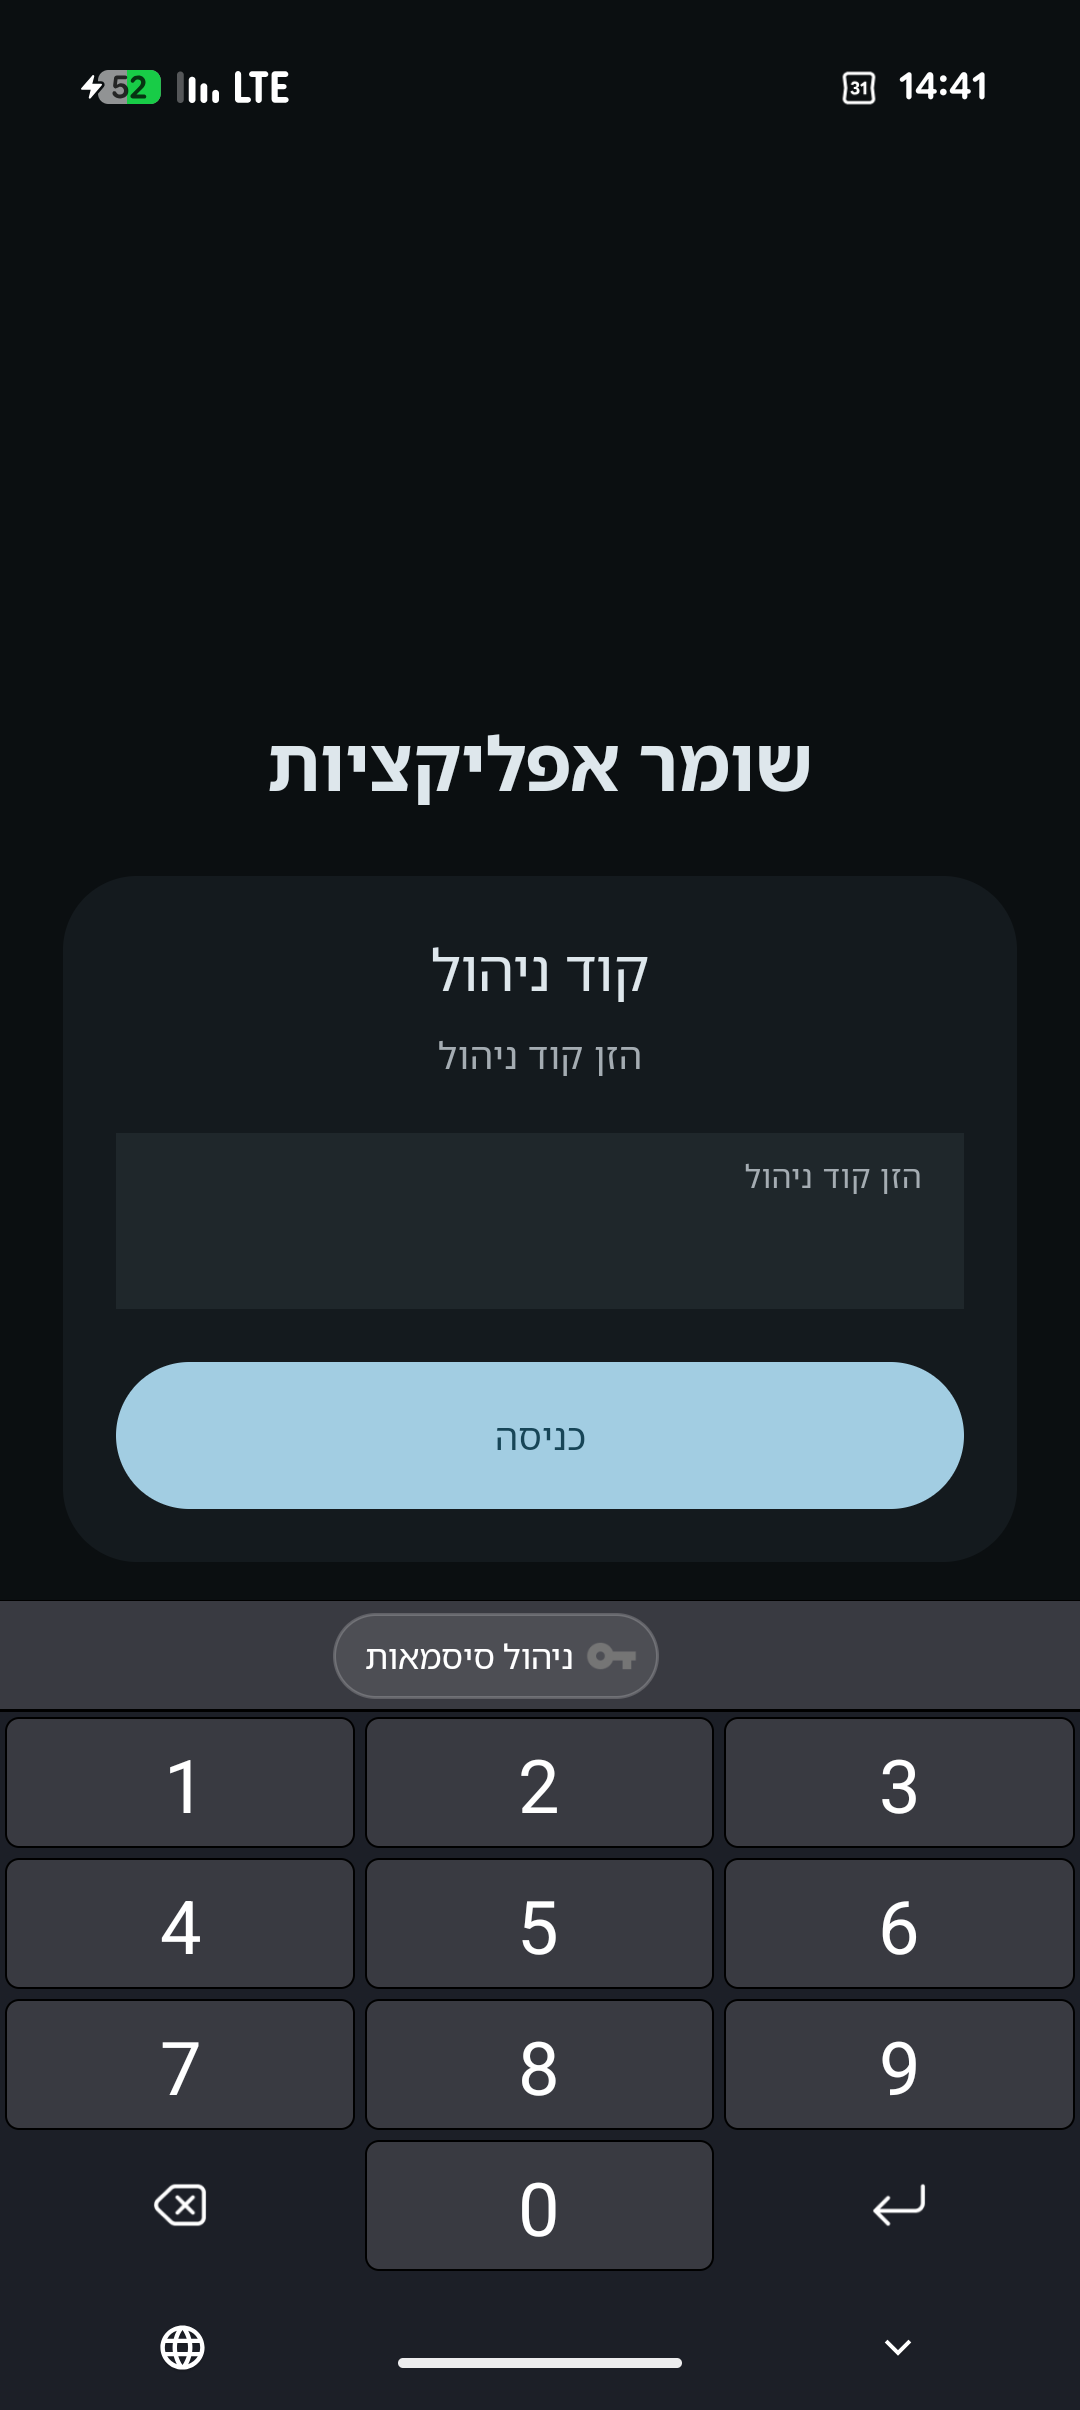
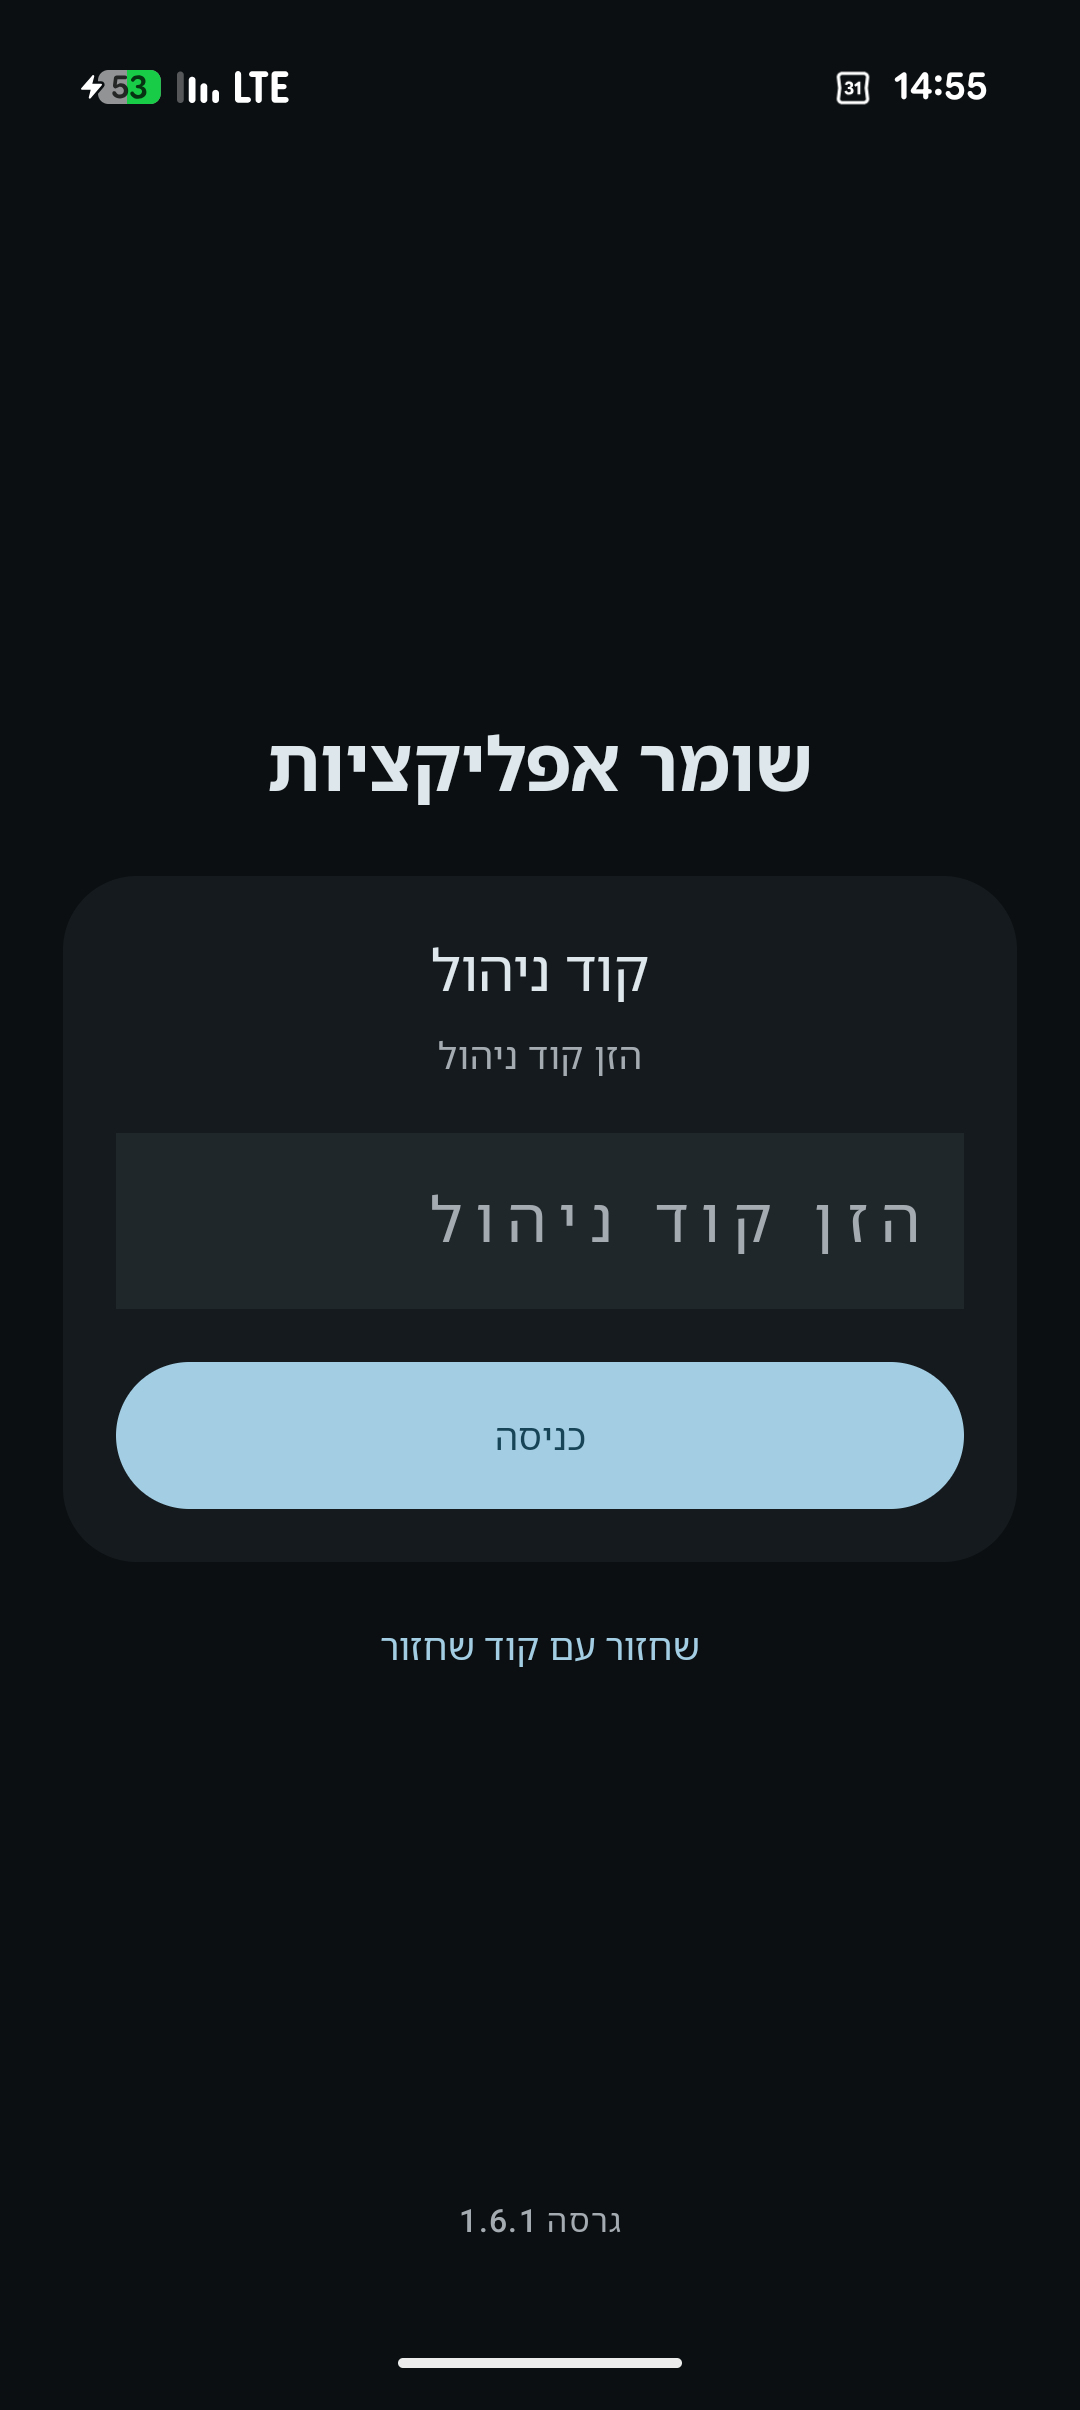
Use the new public screenshots in the README.

diff --git a/README.md b/README.md
@@ -7,11 +7,13 @@
 </p>
 
 <p align="center">
-  <img src="docs/images/pin.png" width="200" alt="מסך הכניסה">
-  <img src="docs/images/main.png" width="200" alt="המסך הראשי">
-  <img src="docs/images/settings.png" width="200" alt="הגדרות DNS">
+  <img src="docs/images/pin.png" width="160" alt="מסך הכניסה">
+  <img src="docs/images/main.png" width="160" alt="המסך הראשי">
+  <img src="docs/images/allowlist.png" width="160" alt="רשימה מותרת">
+  <img src="docs/images/settings.png" width="160" alt="הגדרות DNS">
+  <img src="docs/images/settings-more.png" width="160" alt="קוד והסרה">
   <br>
-  <sub>כניסה · ראשי · DNS</sub>
+  <sub>כניסה · ראשי · רשימה · DNS · קוד</sub>
 </p>
 
 אפליקציה ל-Pixel. נפתח רק מה שסומן ברשימה, ועל הדרך אי אפשר לשנות את ה-DNS מההגדרות של הפון.
